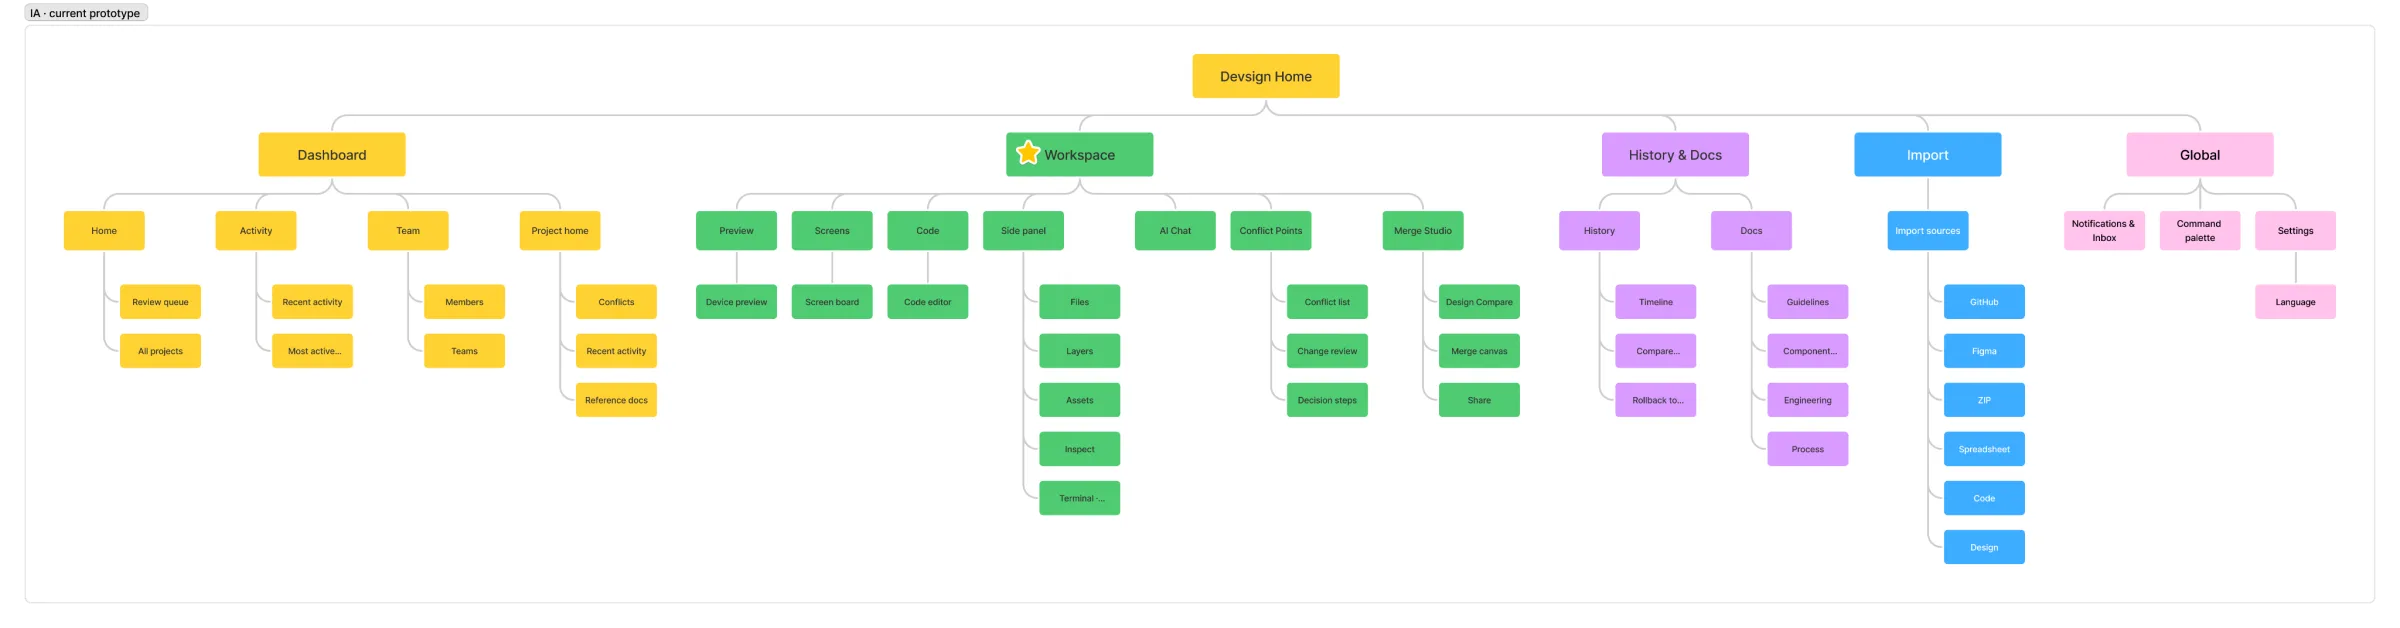
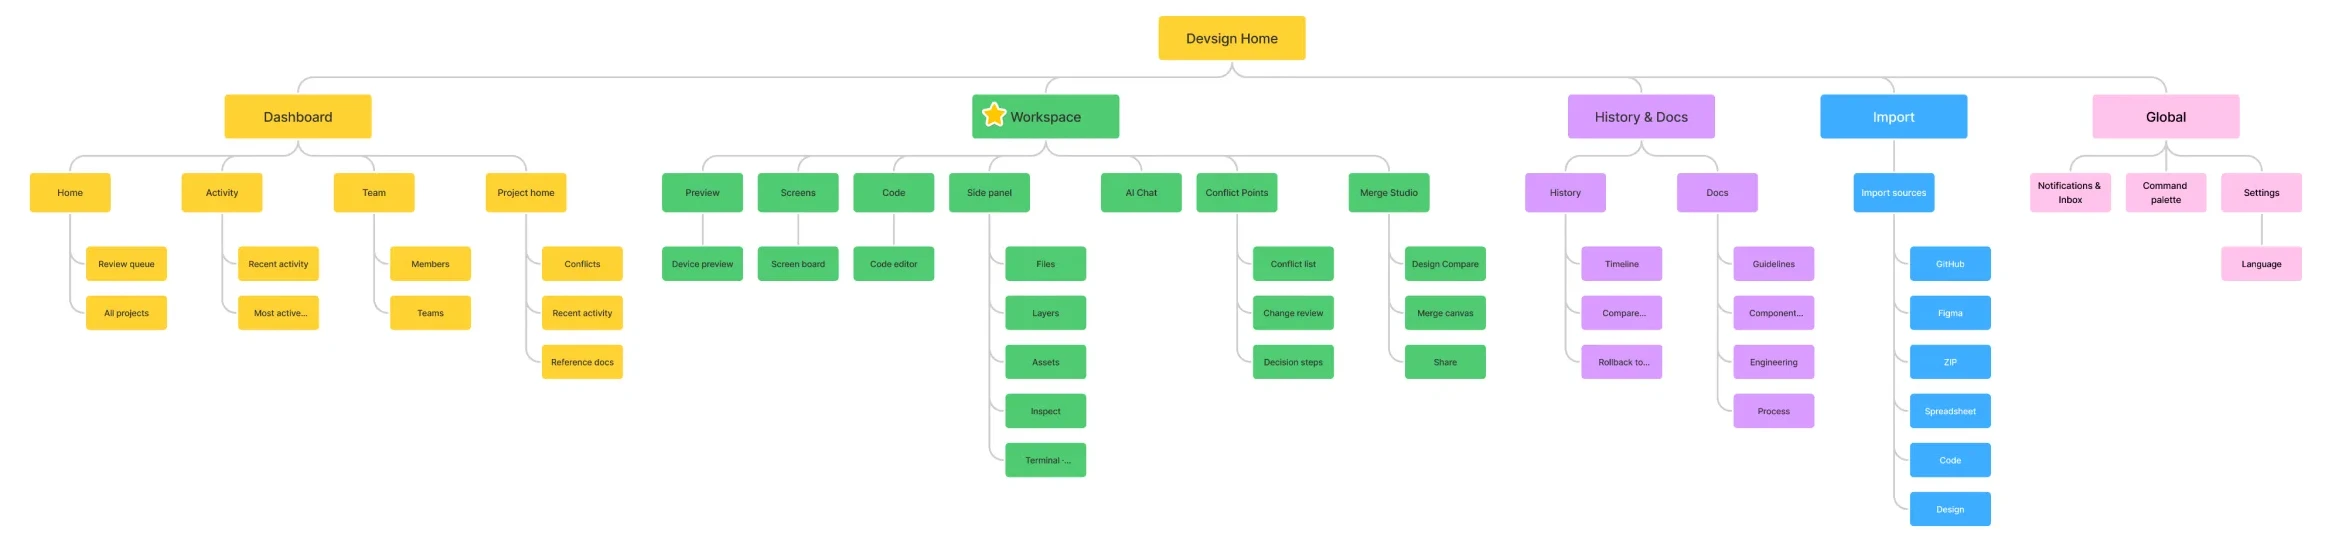
Devsign IA and user flow stacked at full width

diff --git a/components/devsign-case.tsx b/components/devsign-case.tsx
@@ -38,8 +38,6 @@ const pad = (n: number) => String(n).padStart(2, "0");
 // frame aspect ratio, then the image's width, height, left and top in % of the frame.
 const CROPS: Record<string, [number, number, number, number, number]> = {
   "/images/devsign/affinity-board.webp": [1440 / 487, 100.04, 100.97, -0.02, -0.97],
-  "/images/devsign/information-architecture.webp": [1440 / 279, 102.77, 115.63, -1.23, -10.74],
-  "/images/devsign/user-flow.webp": [1440 / 351, 104.71, 126.42, -2.27, -18.71],
   "/images/devsign/value-effort-matrix.webp": [376 / 440, 103.73, 107.53, -1.87, -5.91],
   "/images/devsign/codesign-session.webp": [720 / 472, 108.84, 118.47, -4.38, -13.12],
 };
@@ -610,26 +608,12 @@ export function DevsignCase({ study, children }: { study: Study; children: React
           </div>
         )}
         <div className="dv-subsection">
-          {ff ? (
-            <ul className="dv-artifacts">
-              {[develop.ia, develop.flow].map((item: Study) => (
-                <li key={item.title} className="reveal">
-                  <ZoomFrame href={withBase(item.image.src)} scale={3}>
-                    <Image src={withBase(item.image.src)} alt={item.image.alt} width={item.image.width} height={item.image.height} sizes="(max-width: 767px) 100vw, 600px" />
-                  </ZoomFrame>
-                  <strong>{item.title}</strong>
-                  <p>{item.lead}</p>
-                </li>
-              ))}
-            </ul>
-          ) : <>
-            <Block {...develop.ia} ff={ff} />
-            <Figure img={develop.ia.image} className="dv-board dv-gap-40" zoom={2.5} />
-            <div className="dv-gap-96">
-              <Block {...develop.flow} ff={ff} />
-              <Figure img={develop.flow.image} className="dv-board dv-gap-40" zoom={2.5} />
-            </div>
-          </>}
+          <Block {...develop.ia} text={ff ? undefined : develop.ia.text} ff={ff} />
+          <Figure img={develop.ia.image} className="dv-board dv-gap-40" zoom={2.5} />
+          <div className="dv-gap-96">
+            <Block {...develop.flow} text={ff ? undefined : develop.flow.text} ff={ff} />
+            <Figure img={develop.flow.image} className="dv-board dv-gap-40" zoom={2.5} />
+          </div>
           {/* Shown once its capture is added (`develop.system.image`). */}
           {develop.system?.image && (
             <div className="dv-gap-96">

diff --git a/app/globals.css b/app/globals.css
@@ -4364,15 +4364,7 @@ html:has(.dv-demo-dialog[open]) { overflow: hidden; }
 .dv-dropped { display: flex; flex-wrap: wrap; align-items: center; gap: 12px; color: var(--dv-ink); font-size: clamp(20px, 1.8vw, 24px); font-weight: 500; line-height: 1.3; }
 .dv-dropped s { color: var(--dv-muted); }
 .dv-dropped b { color: var(--case-accent); font-weight: 500; }
-.dv-artifacts { display: grid; grid-template-columns: repeat(2, minmax(0, 1fr)); gap: 24px; margin: 0; padding: 0; list-style: none; }
-.dv-artifacts a { display: block; color: var(--dv-ink); text-decoration: none; }
-.dv-artifacts img { display: block; width: 100%; height: 200px; object-fit: contain; padding: 12px; border-radius: var(--dv-card-radius); background: #ffffff; transition: transform 250ms var(--ease); }
-.dv-artifacts a:hover img { transform: translateY(-3px); }
-.dv-artifacts a:focus-visible { outline: 2px solid var(--case-accent); outline-offset: 4px; border-radius: var(--dv-card-radius); }
-.dv-artifacts strong { display: block; margin-top: 12px; font-size: 18px; font-weight: 600; line-height: 1.4; }
-.dv-artifacts p { margin-top: 4px; color: var(--dv-muted); font-size: 16px; font-weight: 500; line-height: 1.5; }
 .dv .dv-gap-16 { margin-top: 16px; }
-@media (prefers-reduced-motion: reduce) { .dv-artifacts img { transition: none; } }
 
 .about-skills { margin: 48px 0 0; max-width: var(--dv-measure); }
 .about-skills dt { color: var(--dv-ink); font-size: 18px; font-weight: 600; line-height: 1.4; }
@@ -4721,8 +4713,6 @@ html:has(.dv-demo-dialog[open]) { overflow: hidden; }
 @media (prefers-reduced-motion: reduce) { .dv-zoom-inner, .dv-zoom-hint { transition: none; } }
 /* A scroll-driven animation keeps the image on its own layer at 1x, which blurs it under the magnifier. */
 .dv-zoom-frame[data-on] img { animation: none !important; }
-.dv-artifacts .dv-zoom-hint { right: 8px; bottom: 8px; }
-.dv-artifacts li > strong { display: block; margin-top: 12px; color: var(--dv-ink); font-size: 18px; font-weight: 500; line-height: 1.4; }
 
 /* Room inside a block: what a block found sits further from what proves it. */
 .dv-ut-scores { display: grid; grid-template-columns: repeat(4, minmax(0, 1fr)); gap: 48px 40px; margin: 72px 0 0; padding: 0; list-style: none; }

diff --git a/claude.md b/claude.md
@@ -1120,4 +1120,6 @@ Korean value proposition canvas re-exported from FigJam (630:17611, vpc-zoom-ko.
 Devsign wireflow arrows stay out of the screens (no dots or lines over them; the pressed element is in the accent colour): straight across the gutter at mid-height, the branch from the workspace straight down at x 224, the way back dashed along the top into the same x. Result card reads as a result, not an activity: "차이는 찾기 쉬워졌지만, 혼자 끝내긴 어려웠다" / "Easier to spot differences, hard to finish alone" (supersedes "테스트 후 화면을 두 번 고쳤다"); the text gives the 5/5 from 2 people, the two rounds of changes and no retest. Figma not updated.
 Devsign Overview third card is Impact again (owner; supersedes Result): "Differences got easier to find: 5/5" / "차이를 찾기 쉬워졌다, 5/5", from the usability survey (2 participants), with one line saying the first tries still needed help and the changed screens aren't retested. No count-up. The TL;DR Impact line matches. Figma not updated.
 
+Devsign IA and user flow are stacked (owner: too small side by side; supersedes the two thumbnails): each its own block across the 1200 column, label and finding above, magnifier kept. The images are re-cut to the diagram (source label, frame and the flow's repeated title removed), and their stale Figma CROPS entries are gone. Figure no longer distorts them. Figma not updated.
+
 Landing note (KO): "AI와 함께 리서치부터 프로토타입까지 직접 하는 프로덕트 디자이너입니다. 그전에는 보안 컨설턴트로 4년간 일했습니다." ("리서치를 만든다" did not read; "그전에는" orders the career).
